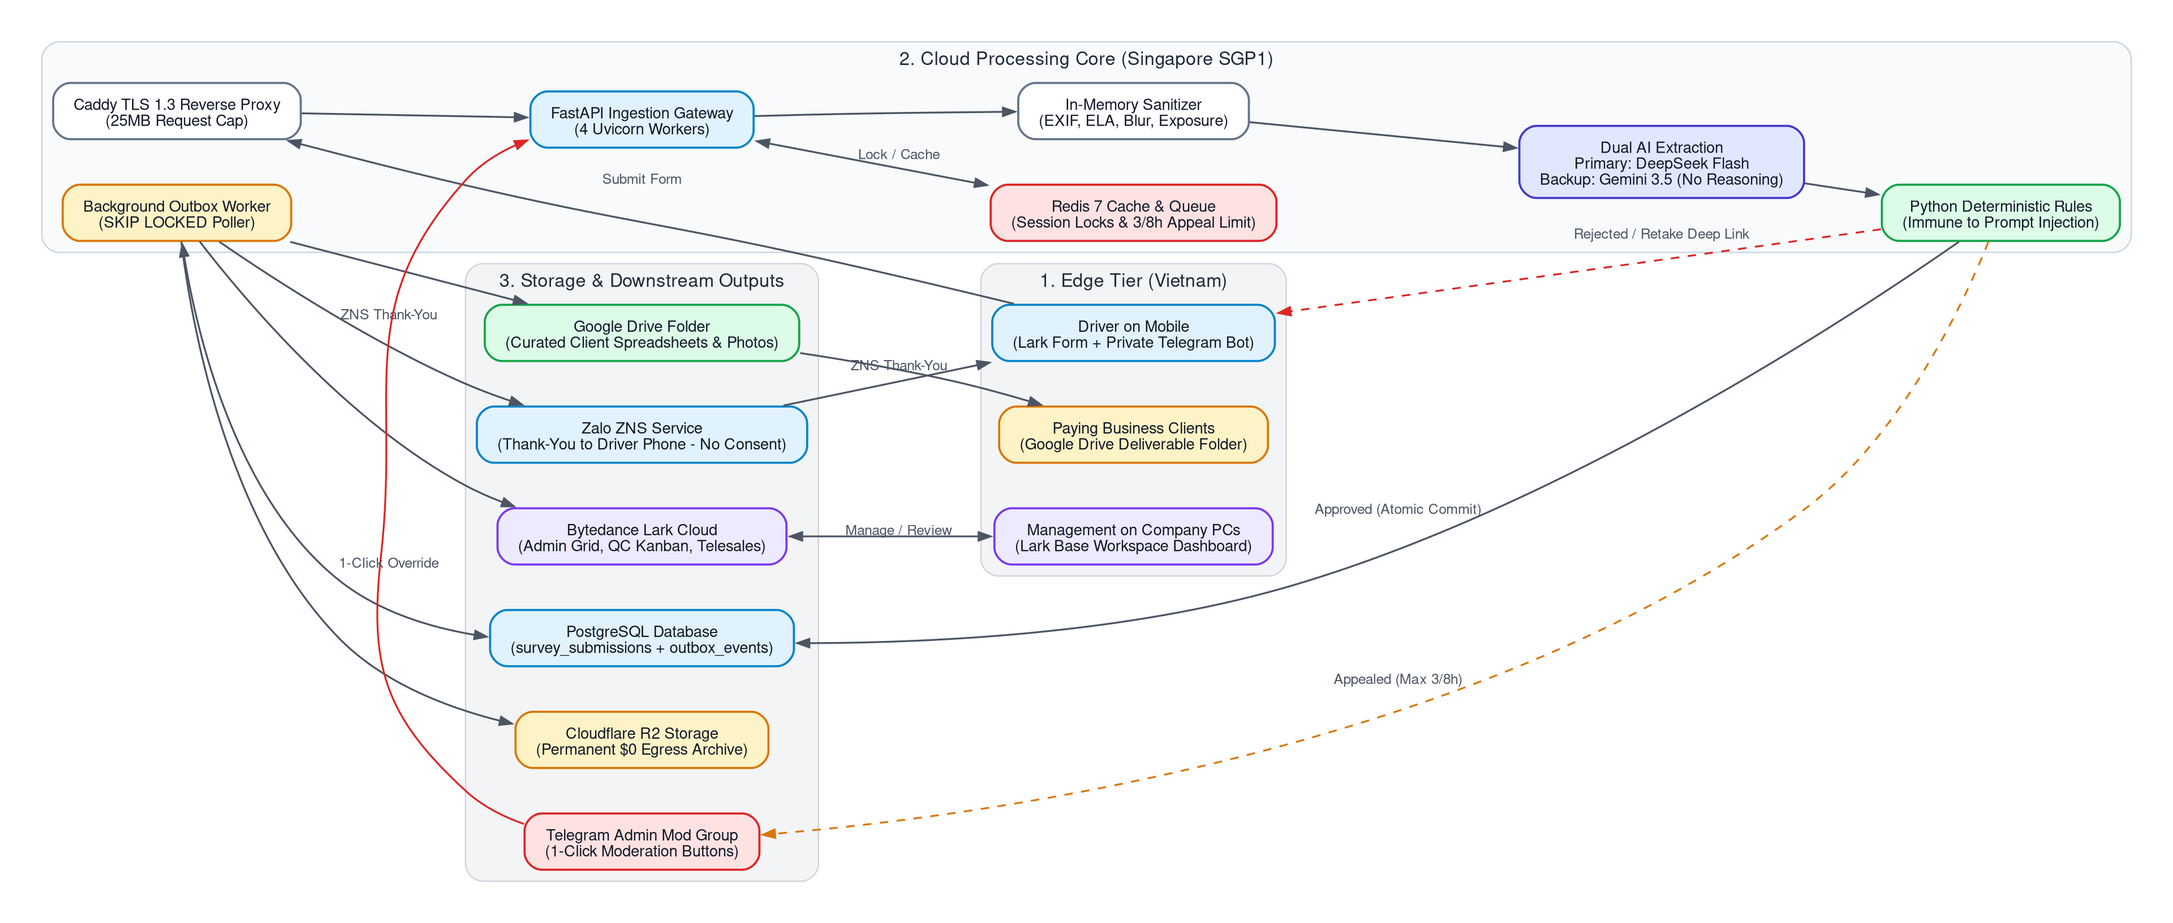
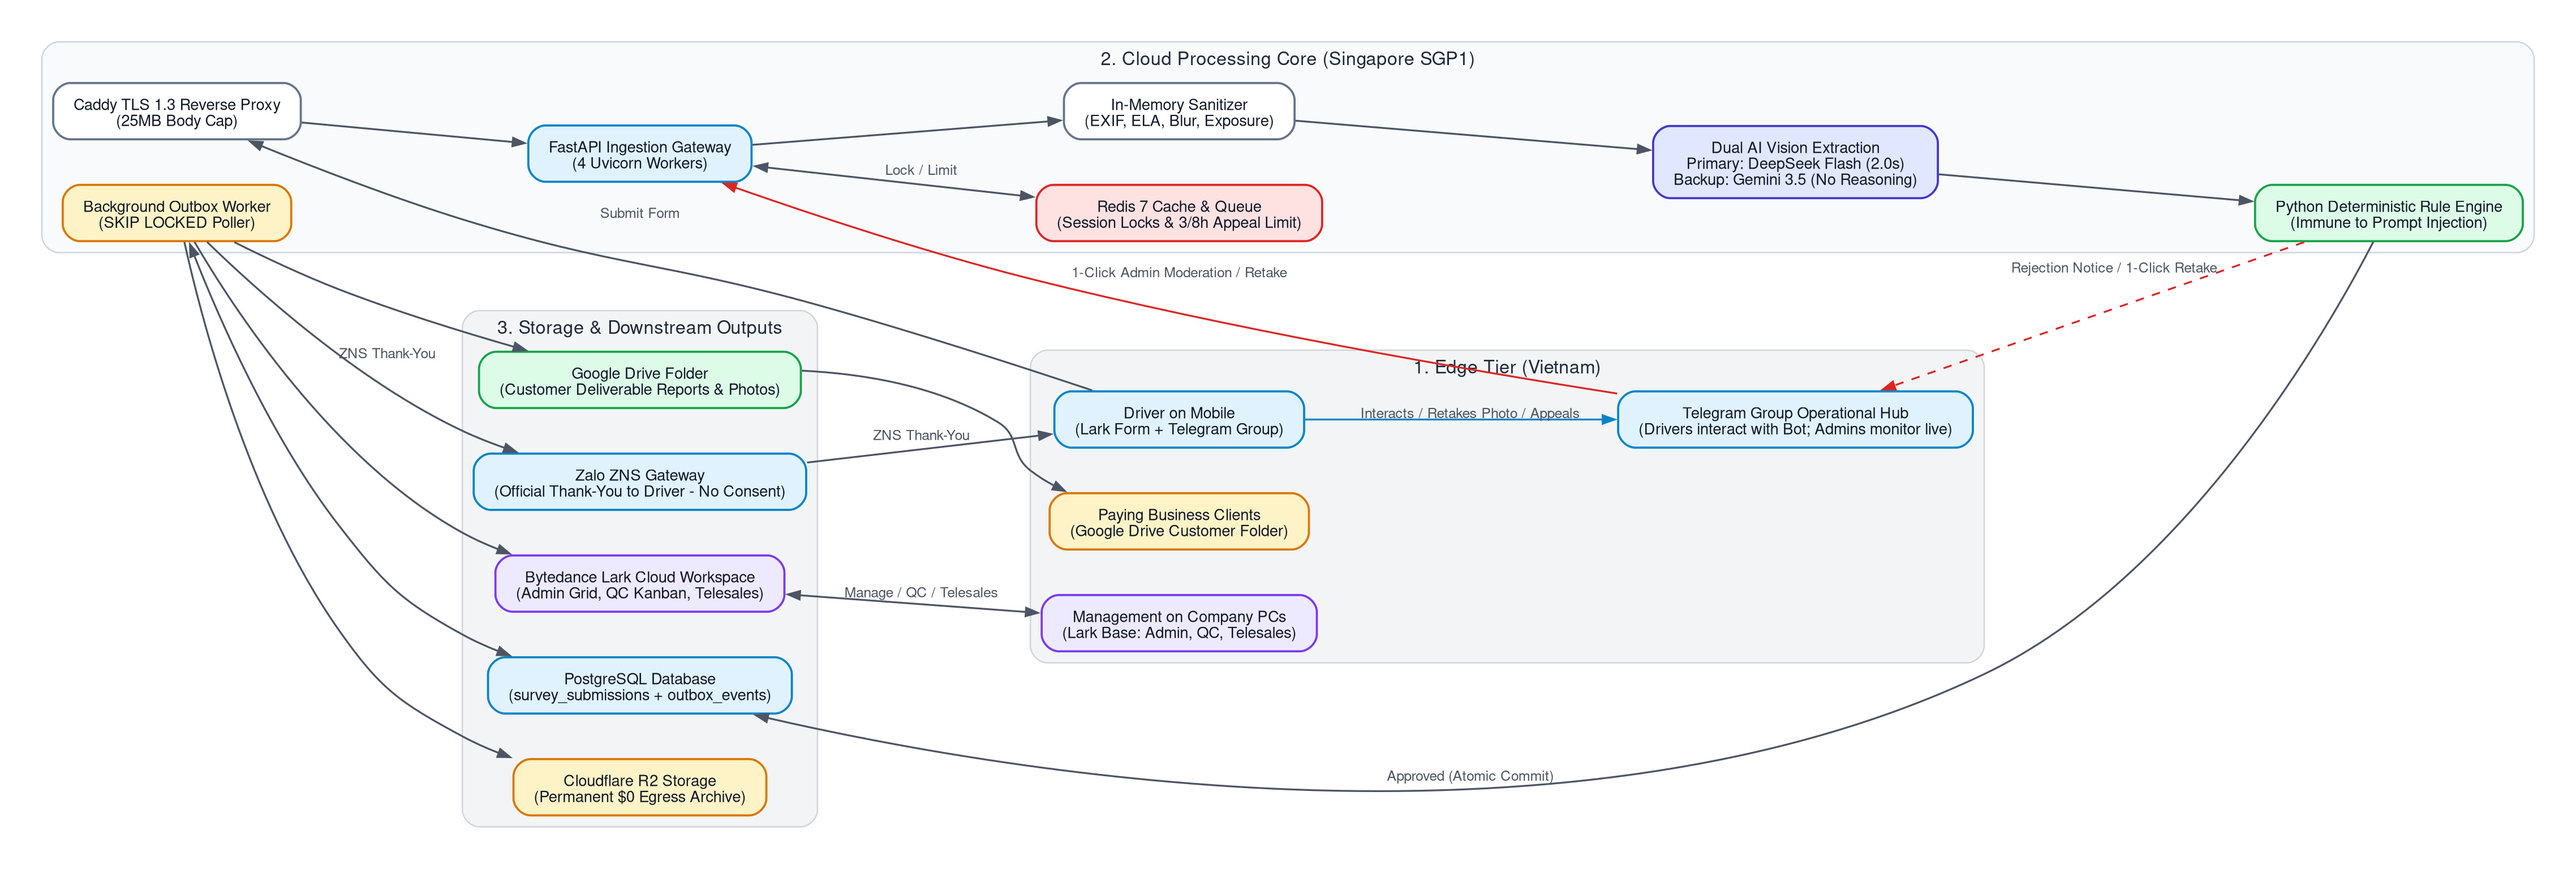
docs: re-render 01_abstract_overall_flow.jpg with group hub and updated downstream outputs

diff --git a/render_charts.py b/render_charts.py
@@ -48,9 +48,10 @@ CHART_1 = COMMON_HEADER + """
         color="#d1d5db";
         fontcolor="#1f2937";
         
-        driver [label="Driver on Mobile\\n(Lark Form + Private Telegram Bot)", fillcolor="#e0f2fe", color="#0284c7"];
-        staff [label="Management on Company PCs\\n(Lark Base Workspace Dashboard)", fillcolor="#ede9fe", color="#7c3aed"];
-        clients [label="Paying Business Clients\\n(Google Drive Deliverable Folder)", fillcolor="#fef3c7", color="#d97706"];
+        driver [label="Driver on Mobile\\n(Lark Form + Telegram Group)", fillcolor="#e0f2fe", color="#0284c7"];
+        tg_hub [label="Telegram Group Operational Hub\\n(Drivers interact with Bot; Admins monitor live)", fillcolor="#e0f2fe", color="#0284c7"];
+        staff [label="Management on Company PCs\\n(Lark Base: Admin, QC, Telesales)", fillcolor="#ede9fe", color="#7c3aed"];
+        clients [label="Paying Business Clients\\n(Google Drive Customer Folder)", fillcolor="#fef3c7", color="#d97706"];
     }
 
     subgraph cluster_cloud {
@@ -60,12 +61,12 @@ CHART_1 = COMMON_HEADER + """
         color="#cbd5e1";
         fontcolor="#1e293b";
 
-        caddy [label="Caddy TLS 1.3 Reverse Proxy\\n(25MB Request Cap)", fillcolor="#ffffff", color="#64748b"];
+        caddy [label="Caddy TLS 1.3 Reverse Proxy\\n(25MB Body Cap)", fillcolor="#ffffff", color="#64748b"];
         fastapi [label="FastAPI Ingestion Gateway\\n(4 Uvicorn Workers)", fillcolor="#e0f2fe", color="#0284c7"];
         redis [label="Redis 7 Cache & Queue\\n(Session Locks & 3/8h Appeal Limit)", fillcolor="#fee2e2", color="#dc2626"];
         sanitizer [label="In-Memory Sanitizer\\n(EXIF, ELA, Blur, Exposure)", fillcolor="#ffffff", color="#64748b"];
-        dual_ai [label="Dual AI Extraction\\nPrimary: DeepSeek Flash\\nBackup: Gemini 3.5 (No Reasoning)", fillcolor="#e0e7ff", color="#4338ca"];
-        rules [label="Python Deterministic Rules\\n(Immune to Prompt Injection)", fillcolor="#dcfce7", color="#16a34a"];
+        dual_ai [label="Dual AI Vision Extraction\\nPrimary: DeepSeek Flash (2.0s)\\nBackup: Gemini 3.5 (No Reasoning)", fillcolor="#e0e7ff", color="#4338ca"];
+        rules [label="Python Deterministic Rule Engine\\n(Immune to Prompt Injection)", fillcolor="#dcfce7", color="#16a34a"];
         outbox_worker [label="Background Outbox Worker\\n(SKIP LOCKED Poller)", fillcolor="#fef3c7", color="#d97706"];
     }
 
@@ -78,26 +79,25 @@ CHART_1 = COMMON_HEADER + """
 
         postgres [label="PostgreSQL Database\\n(survey_submissions + outbox_events)", fillcolor="#e0f2fe", color="#0284c7"];
         r2 [label="Cloudflare R2 Storage\\n(Permanent $0 Egress Archive)", fillcolor="#fef3c7", color="#d97706"];
-        gdrive [label="Google Drive Folder\\n(Curated Client Spreadsheets & Photos)", fillcolor="#dcfce7", color="#16a34a"];
-        lark_cloud [label="Bytedance Lark Cloud\\n(Admin Grid, QC Kanban, Telesales)", fillcolor="#ede9fe", color="#7c3aed"];
-        zns [label="Zalo ZNS Service\\n(Thank-You to Driver Phone - No Consent)", fillcolor="#e0f2fe", color="#0284c7"];
-        admin_tg [label="Telegram Admin Mod Group\\n(1-Click Moderation Buttons)", fillcolor="#fee2e2", color="#dc2626"];
+        gdrive [label="Google Drive Folder\\n(Customer Deliverable Reports & Photos)", fillcolor="#dcfce7", color="#16a34a"];
+        lark_cloud [label="Bytedance Lark Cloud Workspace\\n(Admin Grid, QC Kanban, Telesales)", fillcolor="#ede9fe", color="#7c3aed"];
+        zns [label="Zalo ZNS Gateway\\n(Official Thank-You to Driver - No Consent)", fillcolor="#e0f2fe", color="#0284c7"];
     }
 
     driver -> caddy [label="Submit Form"];
     caddy -> fastapi;
-    fastapi -> redis [dir=both, label="Lock / Cache"];
+    fastapi -> redis [dir=both, label="Lock / Limit"];
     fastapi -> sanitizer -> dual_ai -> rules;
     rules -> postgres [label="Approved (Atomic Commit)"];
-    rules -> driver [label="Rejected / Retake Deep Link", style=dashed, color="#dc2626"];
-    rules -> admin_tg [label="Appealed (Max 3/8h)", style=dashed, color="#d97706"];
+    rules -> tg_hub [label="Rejection Notice / 1-Click Retake", style=dashed, color="#dc2626"];
+    driver -> tg_hub [label="Interacts / Retakes Photo / Appeals", color="#0284c7"];
+    tg_hub -> fastapi [label="1-Click Admin Moderation / Retake", color="#dc2626"];
     postgres -> outbox_worker [dir=both];
     outbox_worker -> r2;
     outbox_worker -> gdrive -> clients;
     outbox_worker -> lark_cloud;
-    lark_cloud -> staff [dir=both, label="Manage / Review"];
+    lark_cloud -> staff [dir=both, label="Manage / QC / Telesales"];
     outbox_worker -> zns -> driver [label="ZNS Thank-You"];
-    admin_tg -> fastapi [label="1-Click Override", color="#dc2626"];
 }
 """
 
